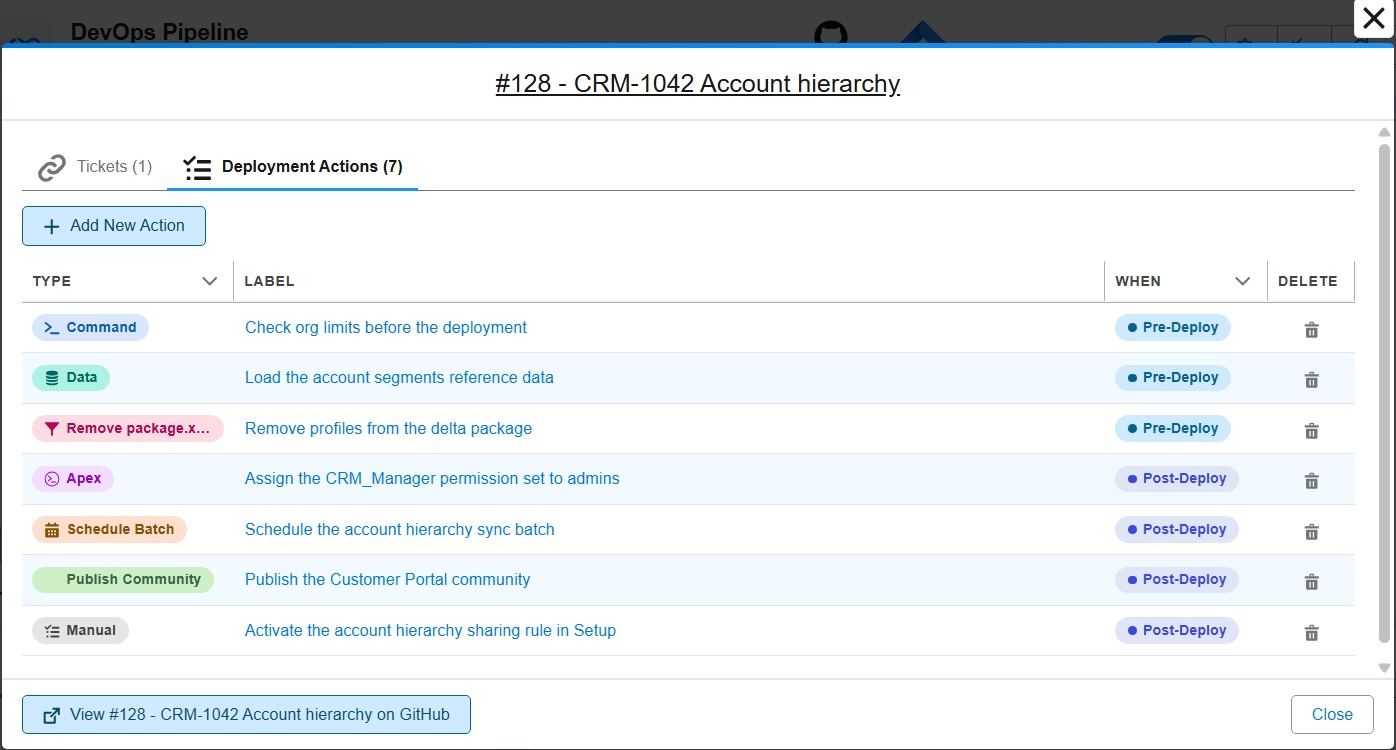
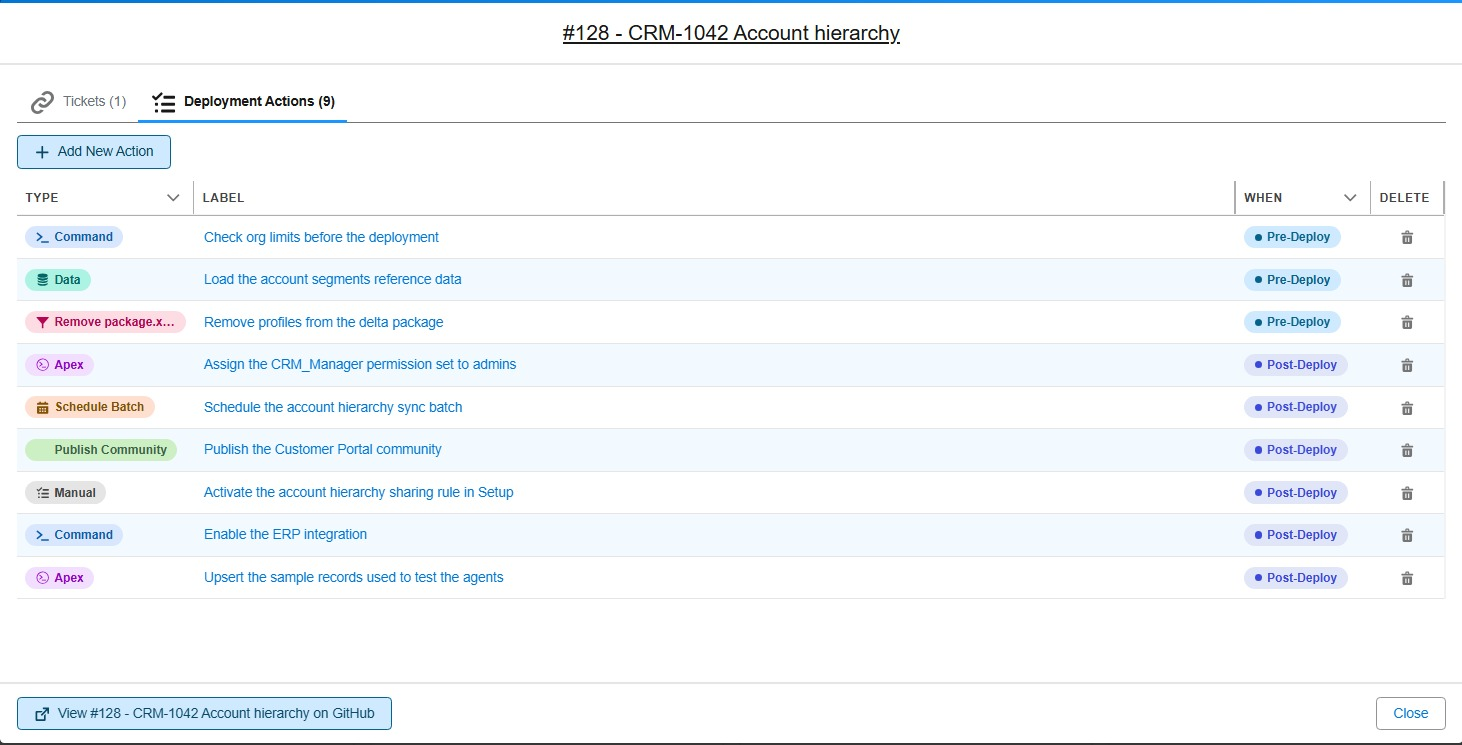
docs(deployment-actions): illustrate the Target orgs field with two examples (#2084)
* docs(deployment-actions): illustrate the Target orgs field with two examples

The "Choose the target orgs" section now shows the deployment action editor
twice: an action restricted to uat and main to enable an integration, and an
Apex script running everywhere except main to upsert the sample records used
to test the agents.

* docs(deployment-actions): refresh the Target orgs screenshots

The branch selector now labels both of its columns with what happens there, and
states the result in a sentence below. The pull request actions list shows the
nine actions of the example pull request.

diff --git a/docs/salesforce-ci-cd-work-on-task-deployment-actions.md b/docs/salesforce-ci-cd-work-on-task-deployment-actions.md
@@ -163,6 +163,14 @@ The resolved scope is visible in two places:
 
 By default, an action runs in every org your work is deployed to. In the editor, the **Target orgs** field lets you restrict it: run it **everywhere**, only on **some major branches** (for example only `uat`), or **everywhere except** a few (for example everywhere but production). You can also target **developer sandboxes** specifically.
 
+Choose **Only these branches** when the action makes sense in a few orgs only. In the example below, the ERP is connected to the uat and production orgs only, so the action that enables the integration runs in `uat` and `main`, and nowhere else.
+
+![Deployment action running on uat and main only](assets/images/screenshot-deployment-action-target-orgs-include.jpg)
+
+Choose **All except these branches** when the action must run everywhere but a few orgs, most often production. In the example below, the Apex script that upserts the sample records used to test the agents runs in every org except `main`.
+
+![Deployment action running everywhere except main](assets/images/screenshot-deployment-action-target-orgs-exclude.jpg)
+
 <details markdown="1"><summary>Technical: includeTargetBranches / excludeTargetBranches</summary>
 
 Two mutually exclusive properties control the target orgs:

diff --git a/CHANGELOG.md b/CHANGELOG.md
@@ -5,6 +5,7 @@
 ### Documentation
 
 - The [Installation page](https://sfdx-hardis.cloudity.com/installation/) is **rewritten for first-time users**: a table to pick between **VS Code**, the **CLI plugin** and the **Docker images**, then the VS Code setup **step by step**, with the IDE compatibility table and the troubleshooting tips moved to the end.
+- [Deployment Actions](https://sfdx-hardis.cloudity.com/salesforce-ci-cd-work-on-task-deployment-actions/#choose-the-target-orgs): the **Target orgs** section now shows two screenshots of the editor, one action restricted to `uat` and `main` to enable an integration, and one running everywhere except `main` to upsert the sample records used to test the agents.
 
 ## [8.0.0] 2026-08-21
 
